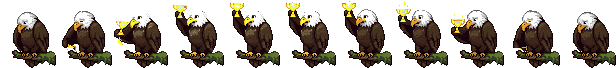
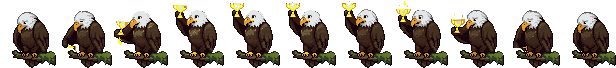
Trophy animation: remove the white/yellow glow on the eagle's head and beak
PixelLab drew the head pure white and the beak hot yellow-orange in the lifting
frames. Match the head back to the awake head's tones, and snap the beak to the
eagle palette instead of the trophy-gold colours.

Claude-Session: https://claude.ai/code/session_01WDvwFGchMTi2eGJqGgqwUT

diff --git a/scripts/build-eagle-sprites.py b/scripts/build-eagle-sprites.py
@@ -586,7 +586,7 @@ FOOT = (_fx.min(), _fx.max())
 def trophy_gold(f):
     """Bright, saturated gold: the trophy and its sparkles (not lit feathers or the beak)."""
     rgb = f[..., :3].astype(int)
-    return (f[..., 3] > 0) & (rgb[..., 0] > 200) & (rgb[..., 1] > 155) & (rgb[..., 2] < 120)
+    return (f[..., 3] > 0) & (rgb[..., 0] > 200) & (rgb[..., 1] > 172) & (rgb[..., 2] < 120)
 
 
 def brown_mask(f):
@@ -609,16 +609,60 @@ def match_brightness(f, ref_lum):
     return f
 
 
+def head_mask(f):
+    """The white head: the biggest blob of near-white pixels in the top of the frame."""
+    rgb = f[..., :3].astype(int)
+    white = (f[..., 3] > 0) & (rgb.min(-1) > 195)
+    white[48:] = False
+    seen = np.zeros_like(white); best = []
+    for y, x in zip(*np.nonzero(white)):
+        if seen[y, x]: continue
+        comp, q = [], deque([(y, x)]); seen[y, x] = True
+        while q:
+            cy, cx = q.popleft(); comp.append((cy, cx))
+            for ny in (cy - 1, cy, cy + 1):
+                for nx in (cx - 1, cx, cx + 1):
+                    if 0 <= ny < 80 and 0 <= nx < 80 and white[ny, nx] and not seen[ny, nx]:
+                        seen[ny, nx] = True; q.append((ny, nx))
+        if len(comp) > len(best): best = comp
+    m = np.zeros_like(white)
+    for cy, cx in best: m[cy, cx] = True
+    return m
+
+
+def beak_zone(f):
+    """Where the beak is: just in front of and below the middle of the white head."""
+    ys, xs = np.nonzero(head_mask(f))
+    z = np.zeros(f.shape[:2], bool)
+    z[int(ys.mean()) - 3:ys.max() + 4, xs.max() - 4:xs.max() + 8] = True
+    return z
+
+
+def match_head(f, ref_rgb):
+    """PixelLab drew the head pure white (a glow) in the lifting frames; give it back the
+    awake head's tones, by rank so the shading stays as drawn."""
+    f = f.copy(); m = head_mask(f)
+    lum = f[m][:, :3].astype(float) @ np.array([0.299, 0.587, 0.114])
+    order = lum.argsort()
+    idx = np.interp(np.linspace(0, 1, len(lum)), np.linspace(0, 1, len(ref_rgb)), np.arange(len(ref_rgb))).round().astype(int)
+    new = np.empty((len(lum), 3), np.uint8); new[order] = ref_rgb[idx]
+    f[m, :3] = new
+    return f
+
+
 def snap_trophy(frames, k=8):
     ref = awake80[brown_mask(awake80)][:, :3].astype(float) @ np.array([0.299, 0.587, 0.114])
-    frames = [match_brightness(f, np.sort(ref)) for f in frames]
+    head_ref = awake80[head_mask(awake80)][:, :3]
+    head_ref = head_ref[(head_ref.astype(float) @ np.array([0.299, 0.587, 0.114])).argsort()]
+    zones = [beak_zone(f) for f in frames]      # measured before the head is toned down
+    frames = [match_head(match_brightness(f, np.sort(ref)), head_ref) for f in frames]
     gold = trophy_gold
-    px = np.concatenate([f[gold(f)][:, :3].astype(float) for f in frames])
+    px = np.concatenate([f[gold(f) & ~z][:, :3].astype(float) for f, z in zip(frames, zones)])
     nearest = ((px[:, None] - c2[None]) ** 2).sum(2).min(1)
     extra = kmeans(px[nearest > 900], k, 2).astype(int)
     out = []
-    for f in frames:
-        f = f.copy(); a = f[..., 3] > 0; g = gold(f)
+    for f, z in zip(frames, zones):
+        f = f.copy(); a = f[..., 3] > 0; g = gold(f) & ~z   # the beak snaps to the eagle palette
         rows = np.arange(80)[:, None, None]
         base_d = ((f[..., None, :3].astype(int) - c2[None, None]) ** 2).sum(-1)
         base_d = np.where((rows < LOCK - 2) & GREEN[None, None], 1 << 30, base_d)
